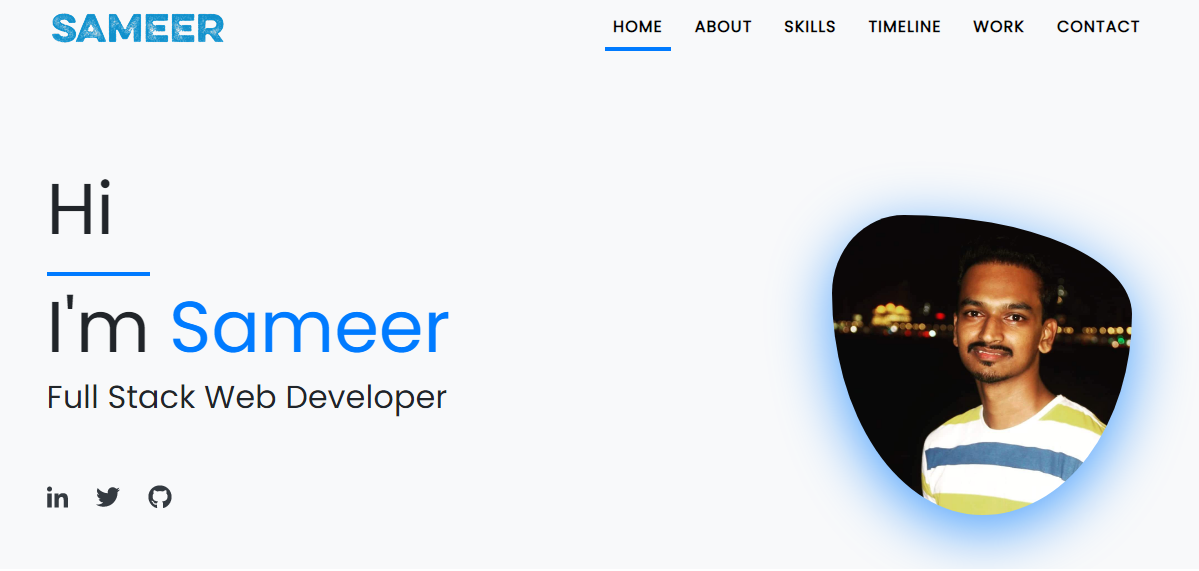
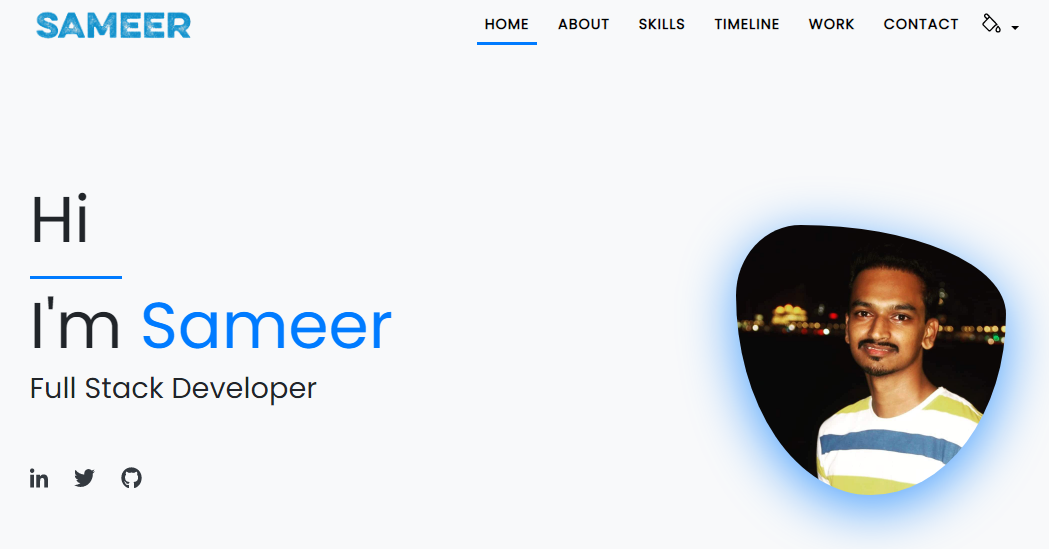
SEO

diff --git a/Workspace/04-portfolio/index.html b/Workspace/04-portfolio/index.html
@@ -10,15 +10,15 @@
   <meta http-equiv="X-UA-Compatible" content="ie=edge">
 
   <!--  Essential META Tags -->
-  <meta property="og:title" content="Sameer Bhilare | Portfolio">
+  <meta property="og:title" content="Sameer Bhilare | Full Stack Developer">
   <meta property="og:type" content="article" />
   <meta property="og:image" content="https://sameerbhilare.netlify.app/images/site-img.png">
   <meta property="og:url" content="https://sameerbhilare.netlify.app/index.html">
   <meta property="og:description" content="I am a Full Stack Developer and this is my portfolio.">
-  <meta property="og:site_name" content="Sameer Bhilare | Portfolio">
+  <meta property="og:site_name" content="Sameer Bhilare | Full Stack Developer">
   
   <!--  Non-Essential, But Required for Analytics -->
-  <meta name="twitter:title" content="Sameer Bhilare | Portfolio">
+  <meta name="twitter:title" content="Sameer Bhilare | Full Stack Developer">
   <meta name="twitter:description" content="I am a Full Stack Developer and this is my portfolio.">
   <meta name="twitter:card" content="summary_large_image">
   <meta name="twitter:creator" content="@sameer59">
@@ -29,7 +29,7 @@
   <script defer src="https://use.fontawesome.com/releases/v5.0.10/js/all.js" integrity="sha384-slN8GvtUJGnv6ca26v8EzVaR9DC58QEwsIk9q1QXdCU8Yu8ck/tL/5szYlBbqmS+" crossorigin="anonymous"></script>
   <link href="https://fonts.googleapis.com/css?family=Poppins" rel="stylesheet">
   <link rel="stylesheet" href="style.css">
-  <title>Sameer Bhilare | Portfolio</title>
+  <title>Sameer Bhilare | Full Stack Developer</title>
 </head>
 <body class="bg-light theme-blue" style="position: relative;" data-spy="scroll" data-target="#mynavbar">
   
